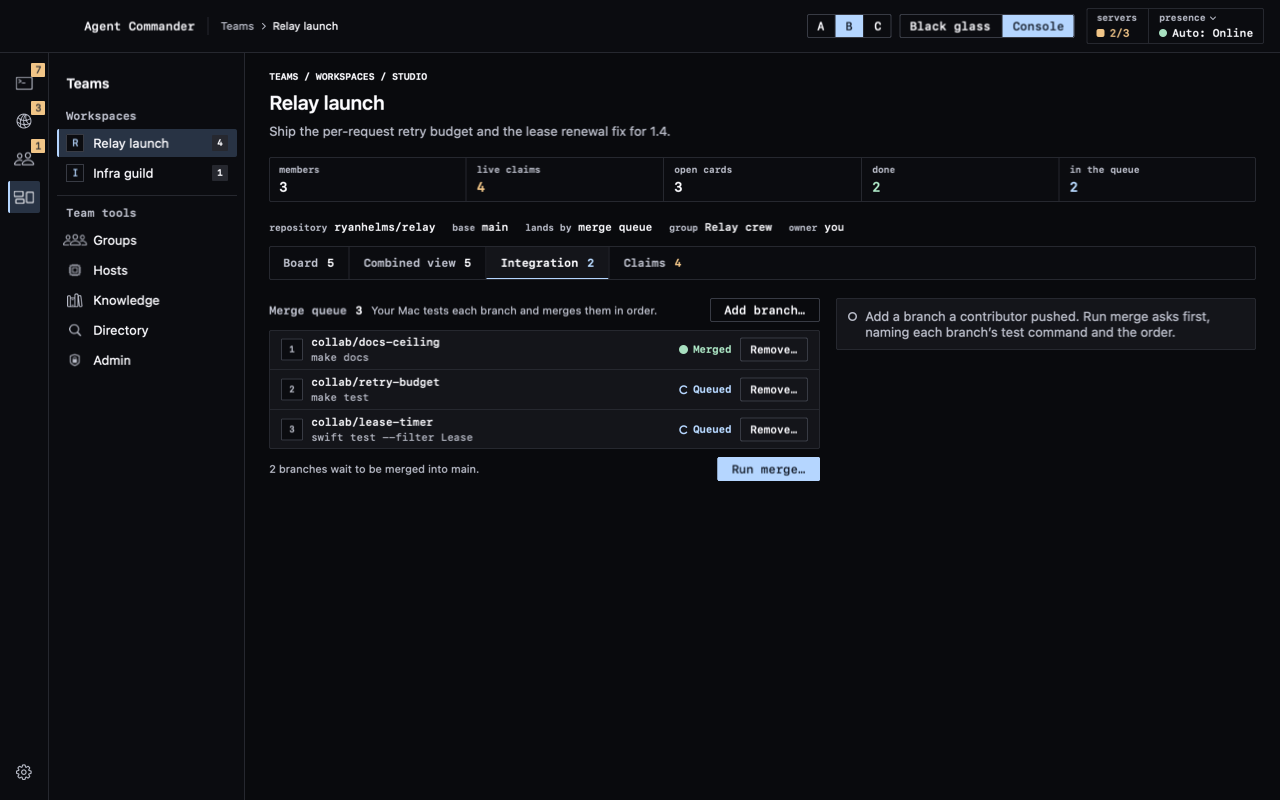
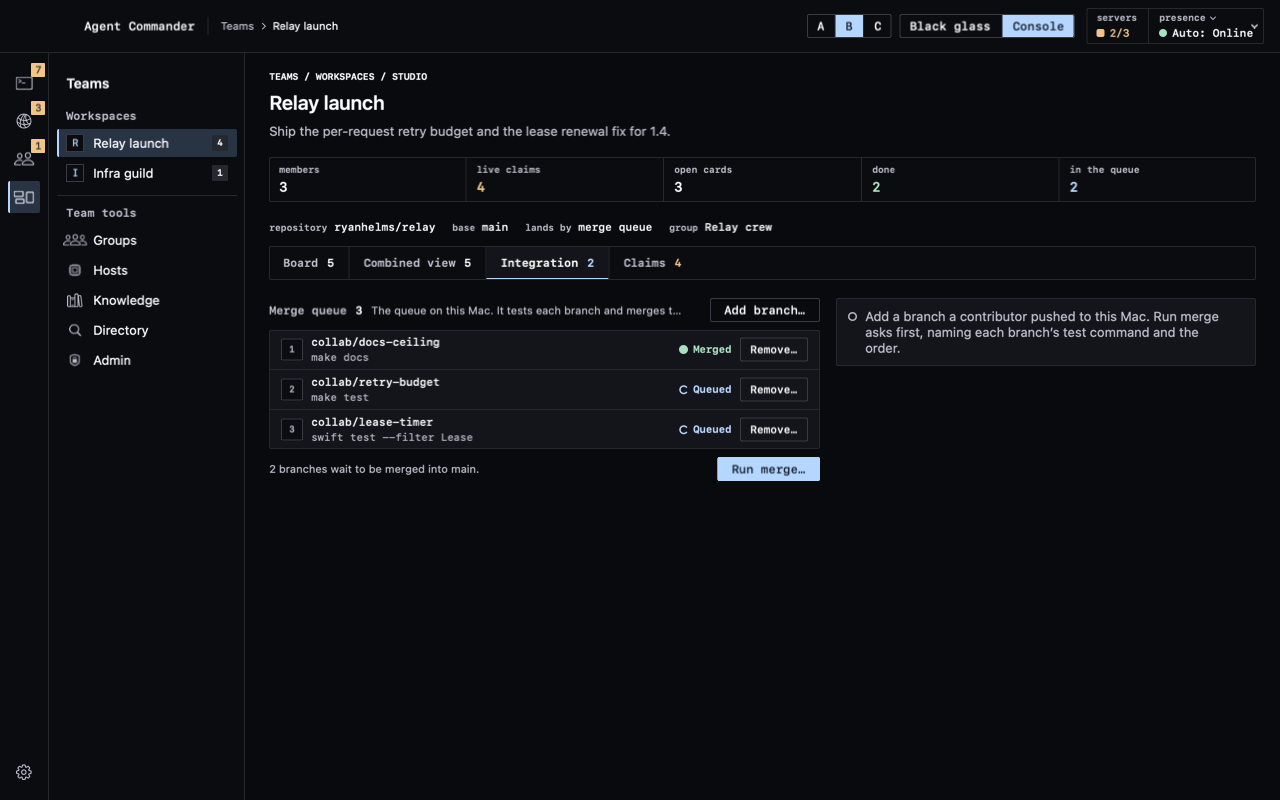
fix(main-window): follow the network's hold for answered requests

Changed region(s): [[0.6562, 0.375, 0.9688, 0.4375], [0.2812, 0.375, 0.5312, 0.4062], [0.625, 0.2812, 0.6562, 0.3125]]

diff --git a/Sources/AgentCommander/TeamsPagesWorkspace.swift b/Sources/AgentCommander/TeamsPagesWorkspace.swift
@@ -20,7 +20,6 @@ struct TeamsWorkspaceContext {
     let pages: TeamsPages
 
     var handle: String { server.handle }
-    var isOwner: Bool { !handle.isEmpty && workspace.owner == handle }
     var name: String { workspace.name.multiplayerDisplay }
 }
 
@@ -239,12 +238,9 @@ struct TeamsIntegrationBand: View {
         return NetworkSplit {
             VStack(alignment: .leading, spacing: Space.s) {
                 ShellBandHeading(title: "Merge queue", count: "\(entries.count)",
-                                 note: context.isOwner ? "Your Mac tests each branch and merges them in order."
-                                                       : "\(context.workspace.owner.multiplayerDisplay)’s Mac tests each branch and merges them in order.") {
-                    if context.isOwner {
-                        Button("Add branch…") { pages.send(.startQueue(workspace: key)) }.buttonStyle(ThemeButtonStyle(compact: true))
-                            .disabled(merging)
-                    }
+                                 note: "The queue on this Mac. It tests each branch and merges them in order.") {
+                    Button("Add branch…") { pages.send(.startQueue(workspace: key)) }.buttonStyle(ThemeButtonStyle(compact: true))
+                        .disabled(merging)
                 }
                 TeamsRowPanel(items: entries.enumerated().map { QueueItem(position: $0.offset + 1, entry: $0.element) },
                               empty: "No branch is queued.") { item in
@@ -252,10 +248,10 @@ struct TeamsIntegrationBand: View {
                     MultiplayerQueueRow(position: item.position, entry: item.entry, now: state.now,
                                         isBusy: merging || pages.isRunning("queue", TeamsKey.make(item.entry.id, on: key)),
                                         isConfirming: removing,
-                                        onRemove: context.isOwner ? { pages.send(.askRemoveQueued(item.entry, workspace: key)) } : nil,
+                                        onRemove: { pages.send(.askRemoveQueued(item.entry, workspace: key)) },
                                         onCancel: { pages.send(.cancelConfirmation) }, onConfirm: { pages.send(.confirm) })
                 }
-                if context.isOwner {
+                do {
                     HStack(spacing: Space.s) {
                         if merging {
                             MultiplayerSpinner()
@@ -300,9 +296,7 @@ struct TeamsIntegrationBand: View {
                         .disabled(!pages.drafts.wrappedValue.queue.canSend || pages.isRunning("composer", key))
                 }
             } else {
-                NetworkInspectorNote(text: context.isOwner
-                    ? "Add a branch a contributor pushed. Run merge asks first, naming each branch’s test command and the order."
-                    : "Push your branch through the owner’s git.push grant. The owner queues and merges it.")
+                NetworkInspectorNote(text: "Add a branch a contributor pushed to this Mac. Run merge asks first, naming each branch’s test command and the order.")
             }
         }
     }
@@ -457,8 +451,7 @@ struct TeamsWorkspacePage: View {
         let group = context.pages.content.groupName(workspace.group, on: context.server.id) ?? workspace.group
         return [("repository", workspace.repository.multiplayerDisplay), ("base", workspace.base.multiplayerDisplay),
                 ("lands by", MultiplayerIntegration.title(for: workspace.integration).lowercased()),
-                ("group", group.multiplayerDisplay),
-                ("owner", context.isOwner ? "you" : workspace.owner.multiplayerDisplay)]
+                ("group", group.multiplayerDisplay)]
     }
 
     private func cells(_ context: TeamsWorkspaceContext) -> [TeamsBandTabs.Cell] {

diff --git a/Tests/AgentCommanderTests/TeamsPagesTests.swift b/Tests/AgentCommanderTests/TeamsPagesTests.swift
@@ -461,3 +461,48 @@ import Testing
         #expect(content.threadRows.map(\.state).sorted() == ["", "2 comments", "3 comments"])
     }
 }
+
+// The live binding (TeamsPagesLive.swift), against the teams fixture. No test reaches a network.
+@MainActor @Suite struct TeamsPagesLiveTests {
+    @Test func theLivePagesReadAndActWithoutMovingTheTray() async throws {
+        let (model, _) = await MultiplayerTeamsFixture.model { call in
+            guard call.verb == .relay else { return nil }
+            switch (call.method, call.path) {
+            case ("POST", "/v1/workspaces/ws-1/claims"):
+                return call.body?["key"] == .string("Sources/Relay") ? "!relay HTTP 409: already claimed by fixture-bo/bo-agent" : #"{"id":"cl-9"}"#
+            default: return nil
+            }
+        }
+        defer { model.close() }
+        // The tray is somewhere else entirely, and stays there.
+        model.go(.hosting)
+        let home = MultiplayerTeamsFixture.home
+        let key = TeamsKey.make("ws-1", on: home), place = TeamsPlace.workspace("ws-1", on: home)
+        let live = TeamsPagesLiveState()
+
+        // Before the window's own read the board says it is being read; after it, it has the cards.
+        #expect(live.content(model).readingCards.contains(key))
+        await live.read(place: place, model: model)
+        let content = live.content(model)
+        #expect(content.cards[key]?.map(\.id) == ["card-1", "card-2", "card-3"] && !content.readingCards.contains(key))
+        #expect(content.workspace(key)?.server.handle.isEmpty == false && content.title(for: place) == content.workspace(key)?.workspace.name)
+        #expect(content.servers.map(\.id).contains(home) && content.groupRows.count == model.share.teams.allGroups.count)
+        #expect(model.share.teams.cards == .loading, "the tray's own board is not read")
+
+        // A refused claim comes back for the form that sent it, with the holder the relay named.
+        let actions = live.actions(model, share: { _, _ in }, requestAccess: { _, _ in })
+        live.pages.send(.startClaim(workspace: key), in: content, through: actions, go: { _ in })
+        live.pages.drafts.claim = MultiplayerClaimDraft(kind: .paths, key: "Sources/Relay", agent: "relay-worker")
+        live.pages.send(.sendClaim, in: content, through: actions, go: { _ in })
+        for _ in 0..<400 where live.pages.refusal == nil { try? await Task.sleep(for: .milliseconds(5)) }
+        #expect(live.pages.refusal?.contains("fixture-bo/bo-agent") == true && live.pages.selection.composer == .claim(workspace: key))
+
+        // The model's own hosts are built for every hosted form.
+        let host = live.host(model)
+        for hosted in [TeamsHosted.workspace(server: home), .claim(workspace: key), .card("card-1", workspace: key), .queue(workspace: key),
+                       .knowledge(server: home), .hostRun(resource: TeamsKey.make("dir-h", on: home)), .policy(server: home)] {
+            _ = host(hosted)
+        }
+        #expect(model.route == .hosting, "nothing the window did moved the tray")
+    }
+}

diff --git a/Sources/AgentCommander/CockpitView.swift b/Sources/AgentCommander/CockpitView.swift
@@ -803,10 +803,15 @@ struct CockpitScreen: View {
                 ui.needsYouFailures[id] = result.reason
                 return
             }
+            // The network holds an answered approval or access request itself, with its outcome
+            // (`ShellNetwork.answers`), so the window keeps no copy and adds no time of its own.
+            guard item.kind == .friendRequest else { return }
+            // A friend request leaves the network's list at once. The window shows its outcome
+            // for as long as the network holds an answered row.
             item.decision = decision
             item.failure = nil
             ui.needsYouDecided.append(item)
-            try? await Task.sleep(for: .milliseconds(2400))
+            try? await Task.sleep(for: MultiplayerShareModel.answeredHold)
             ui.needsYouDecided.removeAll { $0.id == id }
         }
     }

diff --git a/Sources/AgentCommander/NetworkPagesSharing.swift b/Sources/AgentCommander/NetworkPagesSharing.swift
@@ -323,7 +323,7 @@ struct NetworkApprovalsPage: View {
                                              decide: { row, approve in actions.decide(row.approval, row.server, approve) })
                     }
                     VStack(alignment: .leading, spacing: Space.s) {
-                        ShellBandHeading(title: "Access requests", count: "\(access.count)",
+                        ShellBandHeading(title: "Access requests", count: "\(access.filter { $0.answer == nil }.count)",
                                          note: "Review opens the share sheet. Granting it answers the request.")
                         NetworkAccessTable(rows: access, selected: openApproval(in: approvals) == nil ? pages.selection.access : nil,
                                            now: state.now, isBusy: state.isBusy,

diff --git a/Sources/AgentCommander/NetworkPagesModel.swift b/Sources/AgentCommander/NetworkPagesModel.swift
@@ -913,7 +913,8 @@ final class NetworkRowResults {
     private(set) var results: [String: NetworkActionResult] = [:]
     private(set) var running: Set<String> = []
     /// How long a success stays before its row may leave.
-    var dwell: Duration = .milliseconds(2400)
+    /// As long as the network holds an answered row, so the window adds no time of its own.
+    var dwell: Duration = MultiplayerShareModel.answeredHold
 
     /// Runs `work` unless the row's action is already running. `finished` is called with the result.
     /// `keeps` leaves a success in place: an artifact's result stays beside it.

diff --git a/DESIGN.md b/DESIGN.md
@@ -17,6 +17,7 @@ Sources of truth in code:
 | Cockpit wall and zoom for remote workers | `MultiplayerWall.swift` |
 | Themes | `themes` in `design/system/tokens.json`, `Theme` in `ThemeTokens.swift` |
 | The wall's frame and its live work | `WallFrame.swift`, `WallLiveWork.swift` |
+| Teams pages (main window) | `TeamsPageMolecules.swift`, `TeamsPagesWorkspace.swift`, `TeamsPagesTools.swift`, `TeamsPagesModel.swift`, `TeamsPagesLive.swift` |
 
 The app has two themes. **Console** is the default and the language in this document. **Black glass** is the earlier main-window look, kept as an alternative with the same roles. Console is the default. Black glass is chosen in Settings and kept under `appearance.theme`. A component reads a role from `@Environment(\.theme)` and never branches on which theme is active. The console, terminal and pretty view read no theme.
 | Remote band (increment 6) | `MultiplayerRemote.swift` |
@@ -225,7 +226,7 @@ Apply Atomic Design strictly. Components take values and emit targeted actions. 
 | Place row | A place mark, the title in `body` and a trailing count, 28 pt high. The selected row is filled `selection` with the 2 pt `focus` leading marker. Hover tints it 6%. In the tray each of the first nine rows has a ⌘ number shortcut, named in its tooltip; the main window's context list has none. A place that can be shared (a project) offers Share… in its context menu. |
 | Group heading | The group's name in `heading` and secondary ink. A group that folds is a button with a chevron; while folded it shows its hot count beside the name. |
 | Mode cell | A 32 pt square cell with an 18 pt icon. The selected cell is filled `selection` with the leading marker. A hot count sits on the top trailing corner at 14 pt. Each cell has a ⌘ number shortcut. |
-| Toolbar readouts | A status strip sized for the toolbar: `label` over a `data` value, cells split by hairlines on the well inside one hairline frame. `servers` shows "2/3" with a lamp (`on` when all answer, `busy` and `attention` ink when some do, `error` and `failure` ink when none do) and opens Servers. `presence` shows the lamp and word, has a chevron beside its label and opens the presence choices. | In a window the two are two toolbar items side by side, each on its own hairline frame, so each is its own element: a "servers" button and a "Your presence" menu button whose value is the presence in force ("Auto: Busy"). Drawn without a window they are one strip.
+| Toolbar readouts | A status strip sized for the toolbar: `label` over a `data` value, cells split by hairlines on the well inside one hairline frame. `servers` shows "2/3" with a lamp (`on` when all answer, `busy` and `attention` ink when some do, `error` and `failure` ink when none do) and opens Servers. `presence` shows the lamp and word, has a chevron beside its label and opens the presence choices. | In a window the two are two toolbar items side by side, each on its own hairline frame, so each is its own element: a "servers" button and a "Your presence" menu button whose value is the presence in force ("Auto: Busy"). Drawn without a window they are one strip. The presence control is AppKit's own pull-down button with nothing drawn, laid over the readout (`ShellPresencePullDown`): a menu button named "Your presence" whose value is the presence in force, with a check beside the choice in force.
 | Origin cell | Who asks, at a fixed 196 pt so every request starts on one line. A local worker is a 28 pt square mark, its name in `data` and its host in `fingerprint`. A network request is the server's swatch, the friend's round 28 pt avatar, the handle in `data` and the server in `fingerprint`. |
 | Kind tag | question, approval, access or friend, as a badge in `label` beside the request's title. |
 | Clock label | Right-aligned in `data` over a `fingerprint` word: the time left, ticking each second, or the wait. Empty when the source gives no time. |
@@ -261,6 +262,24 @@ Apply Atomic Design strictly. Components take values and emit targeted actions. 
 | Composer panel | A composer opened from a page (Consult, Hand off, Request review, Watch, Add friend, Invite, Membership, Add server): the network's own host in an inspector panel under the telemetry strip and above the page's bands, at up to 540 pt and at its full height, because the page scrolls. Its title names the composer and its server. Cancel, the close action and a finished send put it away; a refusal stays on it. |
 | Compare columns, page form | A fan-out's answers side by side, each column as wide as the page allows and 248 pt at least; more than fit scroll sideways. The winner's column is `selection` at 35% with a 2 pt `focus` top edge. |
 | People grid | Friends by server on one panel: a header line per server (swatch, name, "2 of 3 online"), then that server's friend rows in as many columns of 248 pt as fit. |
+
+### Main-window molecules and organisms (Teams pages)
+
+| Component | What it is |
+|---|---|
+| Band tabs | A workspace's bands (Board, Combined view, Integration, Claims) as joined cells on the well, each with its count in its tone. One band shows at a time, so each fits the window. The chosen cell is on `panel` with the 2 pt `focus` lower edge, like a tab. |
+| Facts line | Labelled values on one line under the telemetry strip: the label in `label`, the value in `data`. A workspace's repository, base, how it lands and its group. |
+| Board columns | Open, Claimed and Done side by side on one panel, divided by hairlines. Each column's heading is its state as a lamp and a word, then its count, on the header fill. A column is 168 pt at least. An empty column says so in `sub`. |
+| Board card | Square, on the `well` with a hairline edge and no shadow. A 2 pt leading rule takes the state's tone (`border` while open). The title is in `name` on up to three lines and opens the card. A claimed card carries a holder badge. An open card offers Claim; a card you hold offers Complete… as its primary. The open card is filled `selection` with the `focus` rule. A refused claim says why under the title in `failure`, and the card shows who holds it. |
+| Holder badge, claim form | Who holds a claimed card, as person and agent ("sam/sam-codex") with a terminal symbol: `focus` when it is yours, `attention` when it is someone else's. |
+| Combined view | A data table of every member's workers for a workspace: the member (avatar, handle, online lamp, once per member), the worker (name, state word, agent chip), what it holds (kind badge and key), its branch in mono, and its checks as a state label ("14 passing", "2 failing", "Running"). A member with no worker has a row that says so. |
+| Confirmation well | The second press before something that writes or runs, on the `well` with an `attention` edge: the question in `name`; what it acts on in mono `focus` (a path, a destination); the steps in order when there is an order, numbered because the order is real; the changes as "label: old → new" lines; one `sub` sentence about what happens; then a keep button and a primary button. Nothing happens before the primary button. It scrolls into view when it opens. |
+| Merge confirmation | A confirmation well under the queue's Run merge…: "Run the merge queue for Relay launch?", then each queued branch in order with its test command, then what happens to a branch that fails or conflicts. "Don’t run" and a primary "Run merge". |
+| Install confirmation | A confirmation well first in the Knowledge inspector. It names the destination: `~/.claude/skills/<name>/SKILL.md` for a skill, the clipboard for a prompt, instructions or a summary, and the chosen file for an MCP item. It names each `${NAME}` placeholder filled from the Keychain. The buttons say what they do: "Install skill", "Copy", "Save to file". |
+| Policy confirmation | A confirmation well under the policy form: "Set this policy on studio?", each change as "old → new", and a primary button that names the server. |
+| Row panel | The tray's own row organisms (claim, queue and pull request rows) on one panel, ruled off by hairlines, at page width. |
+| Policy form, page form | The tray's policy fields in three groups on one panel (Knowledge, Reputation and directory, Limits), without the tray's moderation fields. Used where the window has a member list to moderate from. |
+| Member and device rows | In the Admin inspector: an avatar or a mark, the name, a state label (Active, Suspended), then Suspend… or Unsuspend, or Revoke…. Suspend and Revoke open an inline confirm under the row that names the person or device and the server. |
 
 ### The wall's frame (main window)
 
@@ -365,6 +384,7 @@ The tray keeps its own versions of these:
 - **Order of urgency:** what needs the person first ("Needs you"), then live work, then what they own, then what others offer.
 - **Needs you order:** a request with under five minutes left comes first whatever its kind; then the person's own stopped workers, longest wait first; then network approvals, soonest end first; then access requests; then friend requests. A decided row keeps its place while its outcome shows.
 - **Network pages (main window).** The header's trailing action is the page's one way to start something (Add server, New fan-out, Add friend). Under the telemetry strip the body is a collection beside an inspector: a data table on the left and, at 420 pt on the right, the tray's organism for the chosen row (certificate review, server settings, directory card, approval, grant sheet, hand-off detail, review, profile editor, activity band). Threads and Fan-out turn it round: a narrow list of 340 pt, then the thread or the compare columns in the room that is left. Audit is one full-width table with a server choice and a resource menu beside its heading. In a window too narrow for both, the inspector goes under the collection. A page fits the window at its default 1280 × 800: nothing asks for more width than the window has. In a window narrower than the least a page's bands can take, the bands scroll sideways under the header and telemetry strip; the navigation never leaves the window. Shared offers Revoke… on each grant, with an inline confirm under the row. A row answered a moment ago keeps its place with its outcome (Approved, Denied, Declined, Withdrawn) in place of its verbs, and is no longer counted.
+- **Teams pages (main window).** Teams has two groups in the context list: Workspaces, one place per workspace with its live claims as its count, and Team tools: Groups, Hosts, Knowledge, Directory and, for an admin of at least one server, Admin. A workspace page is the header with the goal, the telemetry strip, the facts line, the band tabs, then the chosen band. Board, Integration and Claims are a collection beside an inspector; the Combined view is one full-width table. The team tools are a collection beside an inspector, like the network pages. A form opens in the inspector: where the network model hosts the form (claim, card, queue a branch, share knowledge, run on a host, policy, new workspace), the page shows that host with `scrolls: false`, because the page scrolls; New card and New group are the window's own forms. Every Teams page fits 1280 × 800 and 1440 × 900.
 - **Preferences.** Sections stack: a mono heading, a `title`, and a trailing scope note. Appearance comes first and offers one choice card per theme, followed by the line "Consoles, terminals and the pretty view look the same in every theme."
 
 ## 5. Behaviour
@@ -375,17 +395,19 @@ The tray keeps its own versions of these:
   - Only a tab, a segment or a tally cell reports selected. A banner's icon is not an element: its meaning is spoken with the sentence ("Done: Released card-2.").
   - The page's scroll bar is taken out of the accessibility tree (it is four unnamed buttons otherwise). The scroll area still scrolls for VoiceOver and the keyboard.
   - A code is spoken letter by letter. A QR code is an image with a label; its link is also there as text.
-- **Keyboard.** In the tray, places switch with ⌘1, ⌘2, ⌘3. In the main window ⌘1 focuses the coordinator, ⌘] zooms a worker and ⌘[ returns to the wall, so the mode rail takes ⌥⌘1 to ⌥⌘5 (Agents, Network, People, Teams, Settings) and context-list rows have no number key. ⌘N starts a run and ⇧⌘A goes to the next request from any page. Every custom control is reachable by Tab. Every shortcut of the main window is in one table (`CockpitShortcuts`), and no two share a chord. A shortcut records its command and the page runs it from its current state.
+- **Keyboard.** In the tray, places switch with ⌘1, ⌘2, ⌘3. In the main window ⌘1 focuses the coordinator, ⌘] zooms a worker and ⌘[ returns to the wall, so the mode rail takes ⌥⌘1 to ⌥⌘5 (Agents, Network, People, Teams, Settings) and context-list rows have no number key. ⌘N starts a run and ⇧⌘A goes to the next request from any page. Every custom control is reachable by Tab. Every shortcut of the main window is in one table (`CockpitShortcuts`), and no two share a chord. A shortcut records its command and the page runs it from its current state. The window also hears the mode keys itself (`CockpitModeKeys`), before it looks for a key equivalent, so each of ⌥⌘1 to ⌥⌘5 acts whatever else in the window wants the chord.
 - **Copy.** Hashes, IDs and trace text can be selected or copied.
 - **Errors.** A failure reads as two sentences: what the tray couldn't do, then the reason the device or relay gave, capitalised and closed with a full stop ("Couldn't claim it. Overlapping claim held by sam/agent."). `MultiplayerSentence.join` writes every one, and drops the "relay HTTP 409:" prefix when a reason follows it.
 - **Counts.** A count takes its noun's singular: "1 claim", "3 claims" (`MultiplayerPlural.count`), drawn and spoken.
 - **Empty and loading.** Use a load note: what is being read, or why it couldn't be. Don't leave a blank region.
 - **Refused answers.** When a network answer isn't taken or fails, the row returns to its waiting form and the reason shows in an `error` load note above the list.
-- **Revealing.** Something that opens below the fold in answer to a press (an inline confirm) scrolls into view, eased, or at once with Reduce Motion.
+- **Revealing.** Something that opens below the fold in answer to a press (an inline confirm) scrolls into view, eased, or at once with Reduce Motion. On a full-size page a view asks with `shellRevealed`: the Revoke confirmation, the grant sheet opened by Review or Share, and every confirmation well.
 - **Live work on the wall.** A local worker is matched to the network by the resource it is shared as. Take back on the dock ends the friend's control at once. A remote worker tile zooms; the band's link, a wall work row and "Open hand-off" go to Hand-offs or Fan-out with that request open.
 - **Apply.** Apply never overwrites: a patch runs `git apply` and stages the changes without committing, and a file or report is saved under a new name when its name is taken. The confirmation says so and names the checkout before anything is written. Each artifact shows its own result.
 - **The window owns what it shows.** The main window's network pages keep their own place: which server, approval, hand-off, thread, audit log or fan-out is open, what was read for it, and every draft. They read and act through the network model's calls that name their target (`loadThread(_:on:)`, `postComment(_:to:on:)`, `revoke(_:on:)` and the like), which never read or move the tray's route. Opening something in the window leaves the tray where it is, and a form open in the tray keeps what was typed. Composers are the network's hosts, shown on the page. Removing a server is the exception: it is still the tray's own two-step, and the tray returns home once the server is gone.
 - **Answers per row.** An answer given on a row (approve, deny, decline, withdraw, accept) comes back for that row alone and shows there as a row outcome. The page's alert band still carries the model's own sentence.
+- **Teams in the window.** The window owns its place on the Teams pages (band, card, group, host, item, search, form), its drafts and its reads: each board, pull-request list, version list and reputation it asked for. It acts through the network model's calls that name their target. Those calls ask nothing twice and refresh no list of the window's, so the window asks for the second press itself and reads again after each action. Every delete, remove, release, suspend and revoke waits for a confirmation that names its target. No Teams page reads or moves the tray's route.
+- **Held answers.** An approval or access request that was answered stays listed for the network's own hold (2 s), with its outcome in place of its verbs. The window builds its rows from every listed request and the network's word on each, in Approvals and in Needs you, and adds no time of its own. An answered row is not counted and its countdown stops; "Waiting on you", "Access requests", the telemetry strip and the navigation count the same rows.
 - **Local notes.** A note kept on this Mac only (a fan-out's winner) lives in Commander's own folder, keyed by server and request. It is never written to the app's preferences, and a fixture run never writes into the live app's folder.
 
 ## 6. Open work
